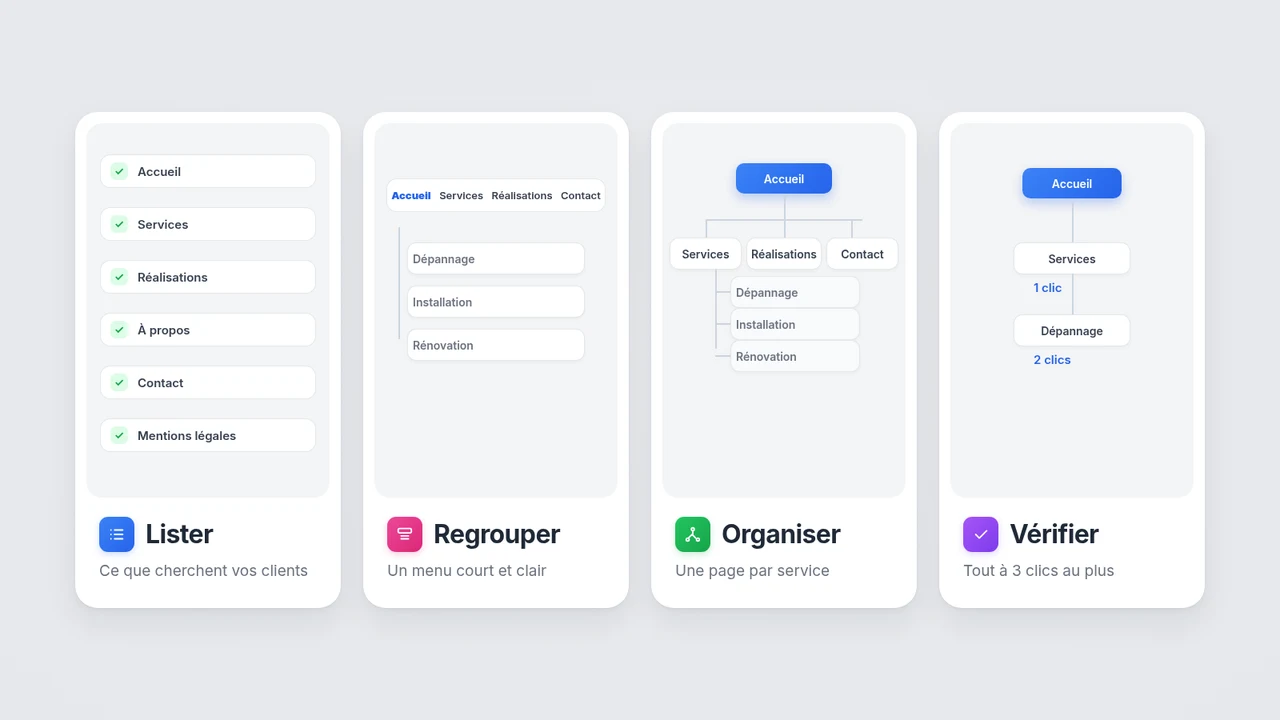
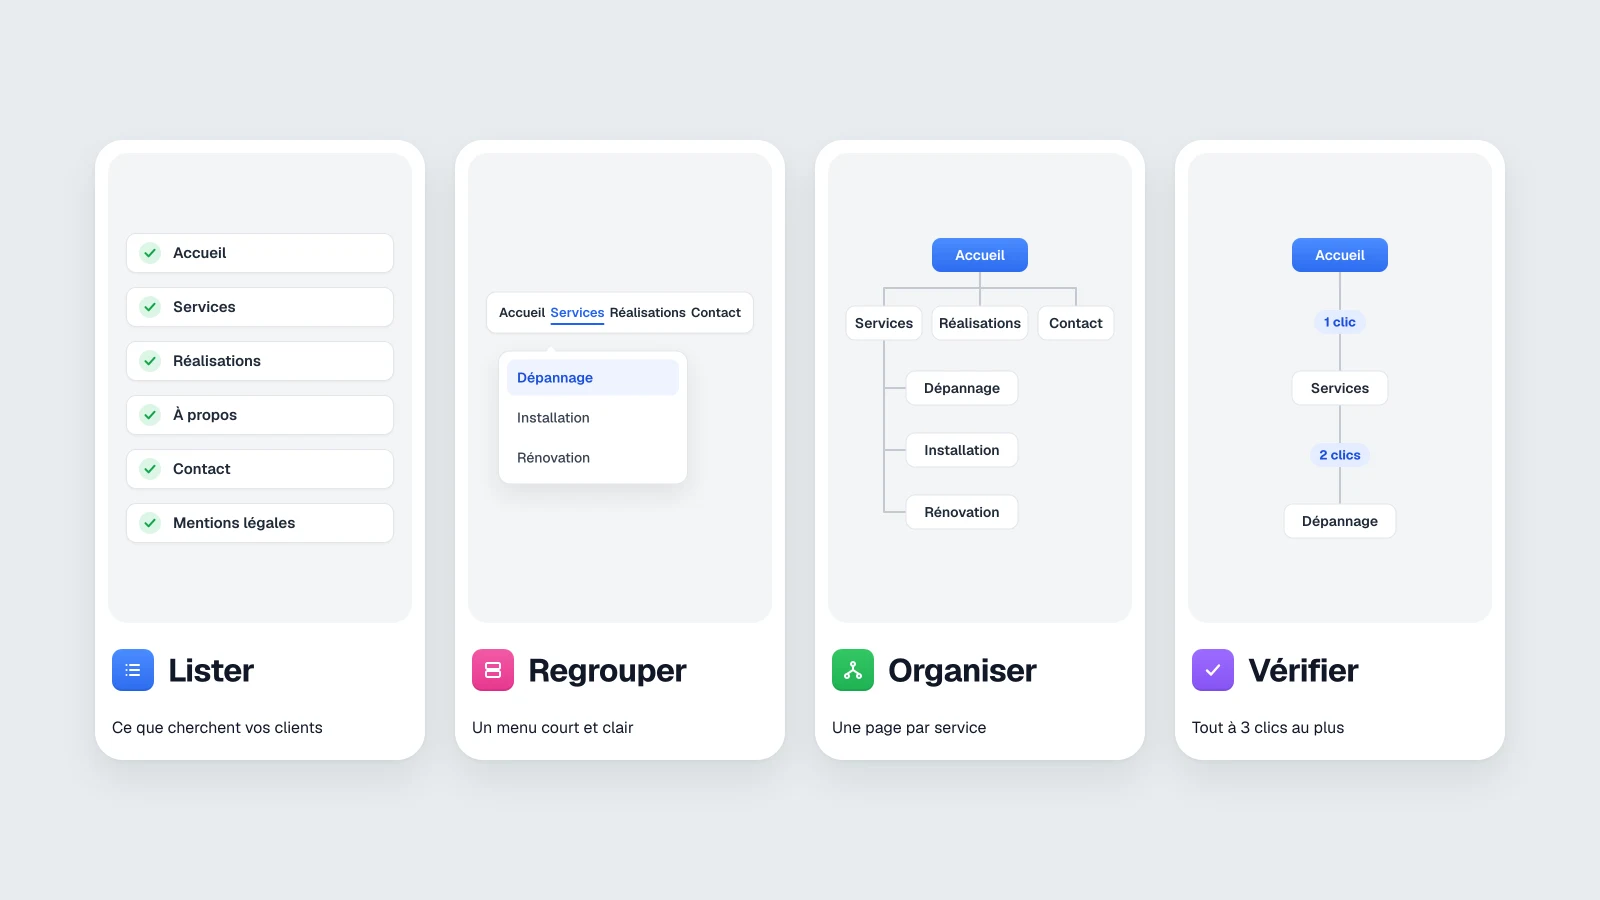
fix(articles): refaire la couverture de l'arborescence en vectoriel
Les connecteurs des arbres (Organiser, Vérifier) et la barre du menu
(Regrouper) étaient mal coupés et se chevauchaient. La couverture est
reconstruite en HTML/SVG et rendue en 1600x900 comme les autres
couvertures. La source HTML est conservée dans docs/covers/ pour les
prochaines retouches.

diff --git a/docs/covers/arborescence-site-web.html b/docs/covers/arborescence-site-web.html
@@ -1,0 +1,150 @@
+<!doctype html>
+<html lang="fr">
+<meta charset="utf-8">
+<title>Couverture : arborescence de site web</title>
+<style>
+  @font-face { font-family: Geist; src: url("../../node_modules/@fontsource-variable/geist/files/geist-latin-wght-normal.woff2") format("woff2"); font-weight: 100 900; }
+  * { box-sizing: border-box; margin: 0; }
+  html, body { width: 1600px; height: 900px; overflow: hidden; }
+  body {
+    background: #e8ecef;
+    font-family: Geist, Inter, system-ui, sans-serif;
+    color: #111827;
+    display: flex; justify-content: center; align-items: center; gap: 30px;
+    -webkit-font-smoothing: antialiased;
+  }
+  .card {
+    width: 330px; height: 620px; background: #fff; border-radius: 28px; padding: 13px 13px 0;
+    box-shadow: 0 18px 40px rgba(17, 24, 39, .08), 0 2px 6px rgba(17, 24, 39, .04);
+  }
+  .panel {
+    position: relative; height: 470px; background: #f3f4f6; border-radius: 20px; padding: 24px 18px;
+    display: flex; flex-direction: column; justify-content: center;
+  }
+  .legend { display: flex; align-items: center; gap: 14px; padding: 26px 4px 0; }
+  .legend .icon {
+    width: 42px; height: 42px; border-radius: 10px; display: grid; place-items: center; color: #fff;
+    box-shadow: inset 0 -2px 0 rgba(0,0,0,.08);
+  }
+  .legend h2 { font-size: 32px; font-weight: 700; letter-spacing: -.02em; }
+  .legend p { font-size: 20px; color: #6b7280; padding: 8px 4px 0; letter-spacing: -.005em; }
+  .blue   { background: linear-gradient(180deg, #4b8cff, #2d6cf0); }
+  .pink   { background: linear-gradient(180deg, #f25aa7, #e8368d); }
+  .green  { background: linear-gradient(180deg, #34c764, #1eb253); }
+  .purple { background: linear-gradient(180deg, #9d6cff, #8653f5); }
+
+  /* boîtes génériques */
+  .box {
+    background: #fff; border: 1px solid #e3e6eb; border-radius: 10px;
+    font-size: 15px; font-weight: 600; color: #1f2937; line-height: 1;
+    box-shadow: 0 1px 2px rgba(17, 24, 39, .04);
+  }
+
+  /* 1. Lister */
+  .list { display: flex; flex-direction: column; gap: 14px; }
+  .list .box { display: flex; align-items: center; gap: 12px; height: 40px; padding: 0 12px; }
+  .check { width: 22px; height: 22px; border-radius: 50%; background: #dcf5e6; display: grid; place-items: center; flex: none; }
+
+  /* 2. Regrouper */
+  .nav { display: flex; justify-content: space-between; align-items: center; height: 42px; padding: 0 12px; font-size: 13px; }
+  .nav span { position: relative; padding: 4px 0; }
+  .nav .active { color: #2563eb; }
+  .nav .active::after { content: ""; position: absolute; left: 0; right: 0; bottom: -2px; height: 2px; background: #2563eb; border-radius: 1px; }
+  .dropdown {
+    margin: 10px 0 0 12px; width: 190px; padding: 8px; border-radius: 12px; background: #fff; border: 1px solid #e3e6eb;
+    box-shadow: 0 10px 24px rgba(17, 24, 39, .08); display: flex; flex-direction: column; gap: 4px;
+  }
+  .dropdown span { display: block; padding: 9px 10px; border-radius: 8px; font-size: 14px; font-weight: 500; color: #374151; }
+  .dropdown span:first-child { background: #eef3ff; color: #1d4ed8; font-weight: 600; }
+  .caret { width: 0; height: 0; border: 7px solid transparent; border-bottom-color: #fff; margin: 6px 0 -13px 58px; position: relative; z-index: 1; }
+
+  /* 3 & 4 : arbres en SVG */
+  svg { display: block; overflow: visible; }
+  svg text { font-family: Geist, Inter, system-ui, sans-serif; font-size: 14px; font-weight: 600; fill: #1f2937; text-anchor: middle; dominant-baseline: central; }
+  svg .node { fill: #fff; stroke: #e3e6eb; }
+  svg .root { fill: url(#rootfill); stroke: none; }
+  svg .root-text { fill: #fff; }
+  svg .edge { fill: none; stroke: #c3c9d3; stroke-width: 2; stroke-linecap: round; stroke-linejoin: round; }
+  svg .pill { fill: #e4ecff; }
+  svg .pill-text { fill: #1d4ed8; font-size: 13px; font-weight: 700; }
+</style>
+<body>
+
+<section class="card">
+  <div class="panel">
+    <div class="list">
+      <div class="box"><span class="check"><svg width="12" height="10" viewBox="0 0 12 10"><path d="M1.5 5.2 4.6 8.3 10.5 1.8" fill="none" stroke="#16a34a" stroke-width="2" stroke-linecap="round" stroke-linejoin="round"/></svg></span>Accueil</div>
+      <div class="box"><span class="check"><svg width="12" height="10" viewBox="0 0 12 10"><path d="M1.5 5.2 4.6 8.3 10.5 1.8" fill="none" stroke="#16a34a" stroke-width="2" stroke-linecap="round" stroke-linejoin="round"/></svg></span>Services</div>
+      <div class="box"><span class="check"><svg width="12" height="10" viewBox="0 0 12 10"><path d="M1.5 5.2 4.6 8.3 10.5 1.8" fill="none" stroke="#16a34a" stroke-width="2" stroke-linecap="round" stroke-linejoin="round"/></svg></span>Réalisations</div>
+      <div class="box"><span class="check"><svg width="12" height="10" viewBox="0 0 12 10"><path d="M1.5 5.2 4.6 8.3 10.5 1.8" fill="none" stroke="#16a34a" stroke-width="2" stroke-linecap="round" stroke-linejoin="round"/></svg></span>À propos</div>
+      <div class="box"><span class="check"><svg width="12" height="10" viewBox="0 0 12 10"><path d="M1.5 5.2 4.6 8.3 10.5 1.8" fill="none" stroke="#16a34a" stroke-width="2" stroke-linecap="round" stroke-linejoin="round"/></svg></span>Contact</div>
+      <div class="box"><span class="check"><svg width="12" height="10" viewBox="0 0 12 10"><path d="M1.5 5.2 4.6 8.3 10.5 1.8" fill="none" stroke="#16a34a" stroke-width="2" stroke-linecap="round" stroke-linejoin="round"/></svg></span>Mentions légales</div>
+    </div>
+  </div>
+  <div class="legend">
+    <span class="icon blue"><svg width="20" height="20" viewBox="0 0 20 20" fill="none" stroke="#fff" stroke-width="2" stroke-linecap="round"><path d="M7 5h9M7 10h9M7 15h9"/><circle cx="3.5" cy="5" r="1" fill="#fff" stroke="none"/><circle cx="3.5" cy="10" r="1" fill="#fff" stroke="none"/><circle cx="3.5" cy="15" r="1" fill="#fff" stroke="none"/></svg></span>
+    <h2>Lister</h2>
+  </div>
+  <p class="legend">Ce que cherchent vos clients</p>
+</section>
+
+<section class="card">
+  <div class="panel">
+    <div class="box nav"><span>Accueil</span><span class="active">Services</span><span>Réalisations</span><span>Contact</span></div>
+    <div class="caret"></div>
+    <div class="dropdown"><span>Dépannage</span><span>Installation</span><span>Rénovation</span></div>
+  </div>
+  <div class="legend">
+    <span class="icon pink"><svg width="20" height="20" viewBox="0 0 20 20" fill="none" stroke="#fff" stroke-width="2" stroke-linecap="round" stroke-linejoin="round"><rect x="3" y="3" width="14" height="6" rx="1.5"/><rect x="3" y="11" width="14" height="6" rx="1.5"/></svg></span>
+    <h2>Regrouper</h2>
+  </div>
+  <p class="legend">Un menu court et clair</p>
+</section>
+
+<section class="card">
+  <div class="panel">
+    <svg width="268" height="300" viewBox="0 0 268 300">
+      <defs><linearGradient id="rootfill" x1="0" y1="0" x2="0" y2="1"><stop offset="0" stop-color="#4b8cff"/><stop offset="1" stop-color="#2d6cf0"/></linearGradient></defs>
+      <!-- Accueil -> 3 enfants : tronc, barre horizontale, 3 descentes -->
+      <path class="edge" d="M134 34v16M38 50h192M38 50v18M134 50v18M230 50v18"/>
+      <!-- Services -> 3 sous-pages : coude unique, 3 branches -->
+      <path class="edge" d="M38 102v172M38 150h22M38 212h22M38 274h22"/>
+      <rect class="root" x="86" y="0" width="96" height="34" rx="9"/>
+      <text class="root-text" x="134" y="17">Accueil</text>
+      <rect class="node" x="0"   y="68" width="76" height="34" rx="9"/><text x="38"  y="85">Services</text>
+      <rect class="node" x="86"  y="68" width="96" height="34" rx="9"/><text x="134" y="85">Réalisations</text>
+      <rect class="node" x="192" y="68" width="76" height="34" rx="9"/><text x="230" y="85">Contact</text>
+      <rect class="node" x="60" y="133" width="112" height="34" rx="9"/><text x="116" y="150">Dépannage</text>
+      <rect class="node" x="60" y="195" width="112" height="34" rx="9"/><text x="116" y="212">Installation</text>
+      <rect class="node" x="60" y="257" width="112" height="34" rx="9"/><text x="116" y="274">Rénovation</text>
+    </svg>
+  </div>
+  <div class="legend">
+    <span class="icon green"><svg width="20" height="20" viewBox="0 0 20 20" fill="none" stroke="#fff" stroke-width="2" stroke-linecap="round" stroke-linejoin="round"><circle cx="10" cy="4" r="2"/><circle cx="4" cy="16" r="2"/><circle cx="16" cy="16" r="2"/><path d="M10 6v4M10 10l-6 4M10 10l6 4"/></svg></span>
+    <h2>Organiser</h2>
+  </div>
+  <p class="legend">Une page par service</p>
+</section>
+
+<section class="card">
+  <div class="panel">
+    <svg width="268" height="300" viewBox="0 0 268 300">
+      <!-- une seule colonne : la ligne passe derrière les pastilles, jamais sous le texte -->
+      <path class="edge" d="M134 34v99M134 167v99"/>
+      <rect class="root" x="86" y="0" width="96" height="34" rx="9"/>
+      <text class="root-text" x="134" y="17">Accueil</text>
+      <rect class="pill" x="108" y="72" width="52" height="24" rx="12"/><text class="pill-text" x="134" y="84">1 clic</text>
+      <rect class="node" x="86" y="133" width="96" height="34" rx="9"/><text x="134" y="150">Services</text>
+      <rect class="pill" x="104" y="205" width="60" height="24" rx="12"/><text class="pill-text" x="134" y="217">2 clics</text>
+      <rect class="node" x="78" y="266" width="112" height="34" rx="9"/><text x="134" y="283">Dépannage</text>
+    </svg>
+  </div>
+  <div class="legend">
+    <span class="icon purple"><svg width="20" height="20" viewBox="0 0 20 20" fill="none" stroke="#fff" stroke-width="2.4" stroke-linecap="round" stroke-linejoin="round"><path d="M4 10.5l4 4 8-9"/></svg></span>
+    <h2>Vérifier</h2>
+  </div>
+  <p class="legend">Tout à 3 clics au plus</p>
+</section>
+
+</body>
+</html>
